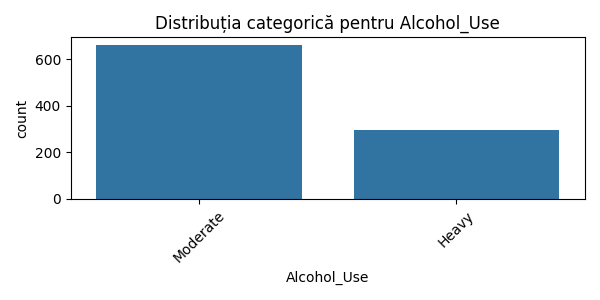
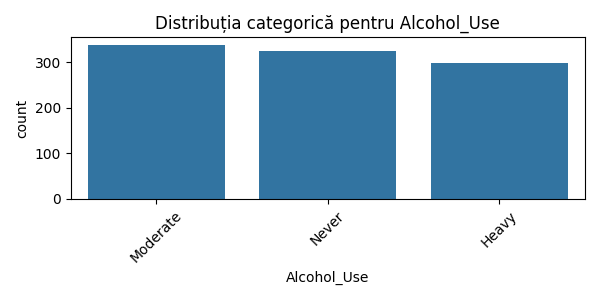
Varianta finala

diff --git a/main.py b/main.py
@@ -34,7 +34,7 @@ for i in lipsa.index:
             X[i] = X[i].fillna(median)
         else:
             mode = X[i].mode()[0]
-            X[i] = X[i].fillna(mode)
+            X[i] = X[i].fillna("Never")
 
 X_train, X_test, y_train, y_test = train_test_split(
          X, y, test_size=0.2, random_state=42)
@@ -74,7 +74,7 @@ for i in numeric:
     plt.close()
 
 
-# Ploturi pentru variabile numerice
+# Grafice pentru variabile numerice
 for i in X_train.select_dtypes(include='number').columns:
     plt.figure(figsize=(6, 3))
     sns.histplot(X_train[i].dropna(), kde=True, bins=30)
@@ -83,7 +83,17 @@ for i in X_train.select_dtypes(include='number').columns:
     plt.savefig(f"grafice/{i}_distributie.png")
     plt.close()
 
-# Ploturi pentru variabile categorice
+    
+    # Calcul outlieri
+    Q1 = X_train[i].quantile(0.25)
+    Q3 = X_train[i].quantile(0.75)
+    IQR = Q3 - Q1
+    lower_bound = Q1 - 1.5*IQR
+    upper_bound = Q3 + 1.5*IQR
+    outliers = X_train[(X_train[i] < lower_bound) | (X_train[i] > upper_bound)][i]
+    print(f"Coloana '{i}': {len(outliers)} outlieri detectați cu IQR rule.", file = f)
+
+# Grafice pentru variabile categorice
 for i in X_train.select_dtypes(include='object').columns:
     plt.figure(figsize=(6, 3))
     sns.countplot(data=X_train, x=i, order=X_train[i].value_counts().index)
@@ -93,7 +103,7 @@ for i in X_train.select_dtypes(include='object').columns:
     plt.savefig(f"grafice/{i}_categoric.png")
     plt.close()
 
-# Matricea de corelații
+# Matrice de corelații
 plt.figure(figsize=(12, 8))
 corr = X_train.select_dtypes(include='number').corr()
 sns.heatmap(corr, annot=True, cmap='coolwarm', fmt=".2f")
@@ -102,7 +112,6 @@ plt.tight_layout()
 plt.savefig("grafice/corelatii_heatmap.png")
 plt.close()
 
-# Codificare labeluri categorice
 siruri = ['Gender', 'Ethnicity', 'Smoking_Status', 'Alcohol_Use',
          'Physical_Activity', 'Family_History_Cancer', 'Tumoral_Marker_2',
          'Tumoral_Marker_5', 'Tumoral_Marker_8', 'Tumoral_Marker_11']

diff --git a/README.md b/README.md
@@ -1,3 +1,4 @@
+Sandu Bogdan-Stefan(311CC)
 # PCLP3-Proiect
     Am decis sa implementez un model de invatare automata ce prelucreaza un set de 
 date ale unor pacienti suspectati de cancer. Printre datele din set se numara varsta,
@@ -10,4 +11,30 @@ daca pacientul sufera sau nu de boala.
 tot aici voi adauga si comentariile si observatiile cu privire la graficele din folder-ul atasat.
     Pentru inceput, vreau sa spun ca am gasit un dataset "curat", fara valori lipsa sau zgomot
 (valori aberante), dar tot am facut verificarile necesare, pentru a proba acest lucru. Dupa 
-citirea dataset-ului si 
+citirea dataset-ului si verificarea valorilor neconforme, am impartit datele 80/20 si am crearet fisierelor
+csv pentru train si test. Ulterior, dupa afisarea dimensiunilor acestora, am afisat statisticile pentru
+ambele seturi, atat pentru datele numerice, cat si pentru cele "categorice".
+    Acum, despre grafice: In principiu, cum se reflecta din boxplot-uri, nu avem outliers decat la BMI,
+ceea ce inseamna ca datele sunt grupate si nu avem discrepante foarte mari, De asemenea, si din distributii
+se observa acelasi lucru, deoarece graficul este, si el, oarecum liniar. In ciuda acestui fapt, care, in teorie,
+este benefic pentru procesul de invatare, un lucru decisiv ce intervine la precizia relativ redusa a modelului
+(0., adica probabilitate de 60% de a produce rezuktatul corect) se poate observa din matricea de corelatie, 
+unde putem observa ca doar BMI(Body Mass Index), greutatea si inaltimea au o legatura stransa, lucru care este
+si logic, deoarece BMI-ul este calculat in functie de cele doua. Pentru restul, dependentele sunt infime, ceea ce,
+cred eu, deruteaza modelul, asa ca as spune ca are loc un mic "underfitting". De asemenea, as mai pune acest lucru
+si pe seama faptului ca, in dataset-ul de antrenament, datele de pe coloana target, "Has_Target", nu sunt repartizate
+chiar in mod egal, ceea ce conduce iarasi catre un dezechilibru in favoarea valorii predominante, "No"(consulta 
+"output.txt"). Un lucru interesant este faptul ca, atunci cand adaug in functia "LogisticRegression" parametrul
+"class_weight='balanced'" precizia, scade de la 0.61 la 0.6, dar am decis sa ma folosesc de acesta deoarece, desi, aparent
+produce un rezultat mai slab, acest lucru e inselator, pentru ca trebuie sa ne uitam si la ceilalti doi indici, "recall"
+si "f1-score", care, pentru producerea rezultatului "Yes" erau neglijabili in primul caz, din cauza dezechilibrului.
+Teoretic, in medicina, este de dorit un recall mare, pentru ca e de preferat sa gasesti un caz fals pozitiv decat sa ratezi
+un caz real .Cum se vede si pe statistica, pentru cazul in care un pacient este sanatos, este o sansa mai buna ca modelul sa dea
+rezultatul corect decat pentru un pacient bolnav, pentru care un rezultat este corect in 52% din cazuri(practic,
+da cu banul). De asemenea, cred ca datasetul au o parte din "vina", deoarece corelatia dintre istoricul
+aparitiei bolii in familie si diagnostic ar trebui sa fie, din nou, mai stransa. Toate cele de mai sus sunt reflectate in
+matrciea de confuzie, unde se poate vedea clar, ca modelul are dificultati in depistarea cazurilor pozitive. 
+Poate ca ar fi fost mai potrivit sa predomine rezultatele "Yes"(din motivul de fals pozitiv de mai sus).
+    Una peste alta, din acest proiect am invatat atat cum sa gestionez un set de date, cat si cum sa-l interpretez si 
+unde sa ma uit atunci cand apar erori sau dezechilibre.
+!!!Setul de date a fost generat de mine, ca experiment, impreuna cu Deepseek(de acolo si discorantele).
